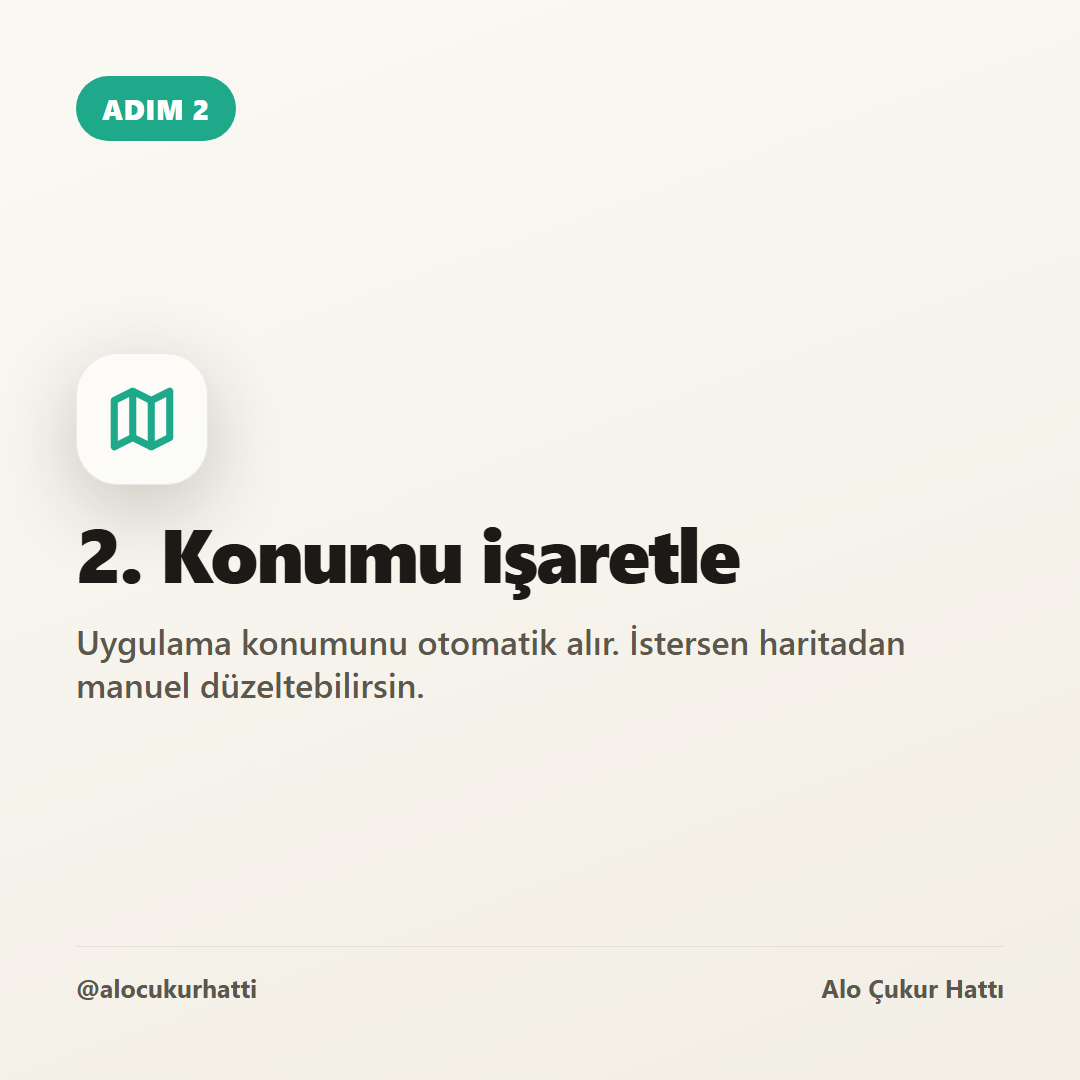
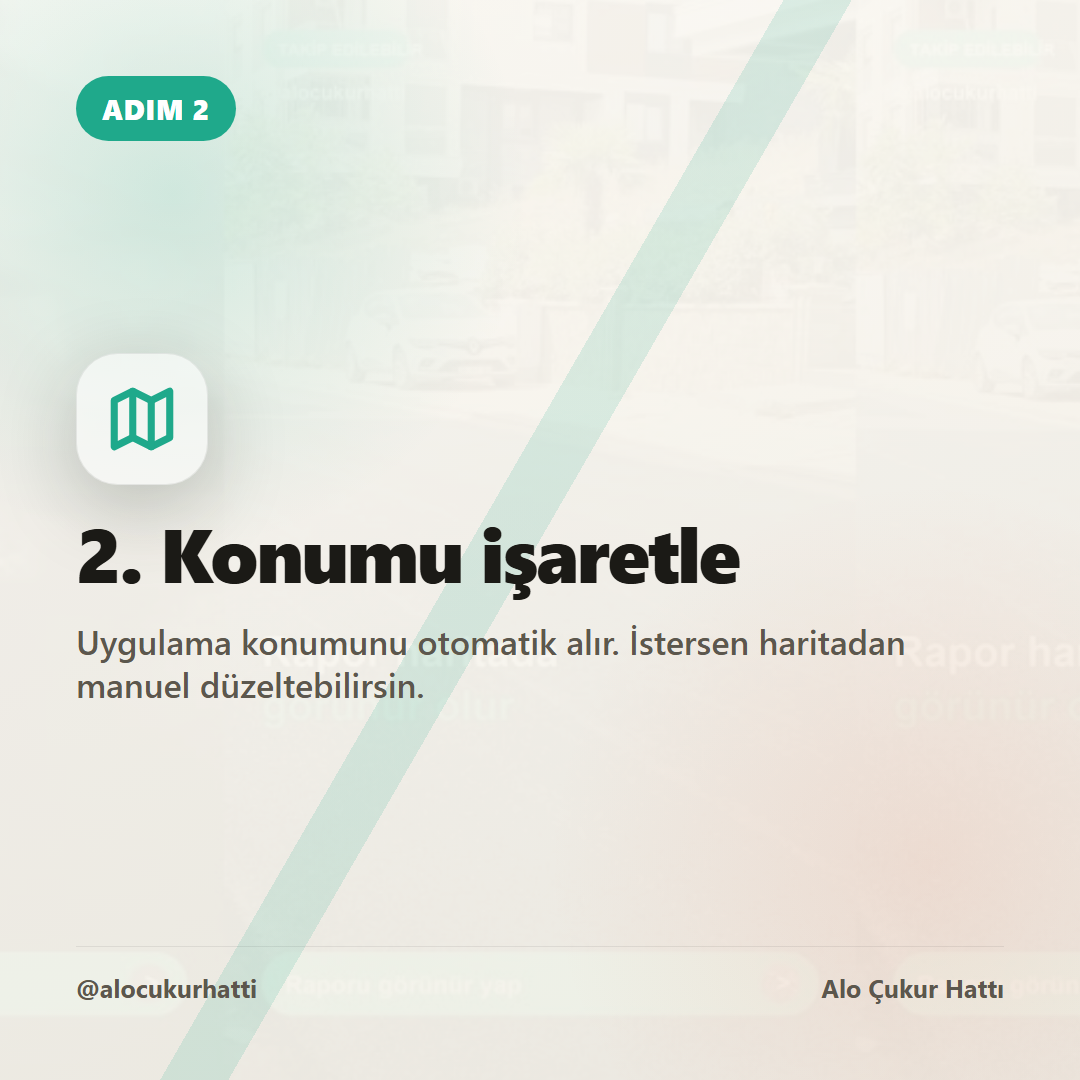
docs: record reels format and refresh carousels

Changed region(s): [[0.1528, 0.0, 0.7944, 1.0], [0.0, 0.0306, 0.3361, 0.3361]]

diff --git a/sosyalmedya/create_first_5_assets.py b/sosyalmedya/create_first_5_assets.py
@@ -14,6 +14,7 @@ from playwright.sync_api import sync_playwright
 BASE = Path(__file__).resolve().parent
 OUT = BASE / "ready_content" / "ilk_5"
 TMP = BASE / "_tmp_first_5.html"
+CAROUSEL_BG = BASE / "moneyprinter_pexels_reels" / "outputs" / "reels_01_pexels_lansman_contact.jpg"
 
 PALETTE = {
     "canvas": "#FBF9F4",
@@ -33,7 +34,7 @@ PALETTE = {
 }
 
 
-def shell(title, eyebrow, body, cta="", icon="pin", dark=False, meta="@alocukurhatti", size="vertical"):
+def shell(title, eyebrow, body, cta="", icon="pin", dark=False, meta="@alocukurhatti", size="vertical", bg_image=""):
     if size == "square":
         width, height = 1080, 1080
         pad = 76
@@ -62,6 +63,35 @@ def shell(title, eyebrow, body, cta="", icon="pin", dark=False, meta="@alocukurh
     sub = "#D8D2C6" if dark else PALETTE["body"]
     card = "rgba(255,255,255,0.08)" if dark else "rgba(255,255,255,0.55)"
     border = "rgba(255,255,255,0.16)" if dark else "rgba(27,26,22,0.08)"
+    photo_opacity = 0.22 if dark else 0.18
+    photo_overlay = "rgba(8,20,17,0.48)" if dark else "rgba(251,249,244,0.76)"
+    photo_bg = (
+        f"""
+          .photo-bg {{
+            position: absolute;
+            inset: 0;
+            background-image:
+              linear-gradient(160deg, {photo_overlay}, {photo_overlay}),
+              url("{bg_image}");
+            background-size: cover;
+            background-position: center;
+            opacity: {photo_opacity};
+            filter: saturate(0.82) contrast(1.08);
+            transform: scale(1.04);
+          }}
+          .photo-sheen {{
+            position: absolute;
+            inset: 0;
+            background:
+              linear-gradient(120deg, transparent 0 46%, rgba(31,169,139,0.14) 46% 50%, transparent 50% 100%),
+              radial-gradient(circle at 16% 18%, rgba(31,169,139,0.18), transparent 28%),
+              radial-gradient(circle at 86% 80%, rgba(231,111,79,0.12), transparent 30%);
+          }}
+        """
+        if bg_image
+        else ""
+    )
+    photo_html = '<div class="photo-bg"></div><div class="photo-sheen"></div>' if bg_image else ""
 
     return f"""
     <html>
@@ -93,6 +123,7 @@ def shell(title, eyebrow, body, cta="", icon="pin", dark=False, meta="@alocukurh
             background-size: 52px 52px;
             opacity: {0.45 if dark else 0.23};
           }}
+          {photo_bg}
           .badge {{
             position: relative;
             z-index: 2;
@@ -189,6 +220,7 @@ def shell(title, eyebrow, body, cta="", icon="pin", dark=False, meta="@alocukurh
       <body>
         <div class="frame">
           <div class="grid"></div>
+          {photo_html}
           <div class="badge">{eyebrow}</div>
           <div class="center">
             <div class="icon">{icon_svg(icon)}</div>
@@ -232,7 +264,8 @@ def vertical(page, folder, name, title, eyebrow, body, cta="", icon="pin", dark=
 
 
 def square(page, folder, name, title, eyebrow, body, cta="", icon="pin", dark=False):
-    html = shell(title, eyebrow, body, cta, icon, dark, size="square")
+    bg_image = CAROUSEL_BG.resolve().as_uri() if CAROUSEL_BG.exists() else ""
+    html = shell(title, eyebrow, body, cta, icon, dark, size="square", bg_image=bg_image)
     render(page, html, OUT / folder / name, 1080, 1080)
 
 

diff --git a/sosyalmedya/README.md b/sosyalmedya/README.md
@@ -10,6 +10,17 @@ Yeni ana strateji `sosyal_medya_plani_2026.md` dosyasındadır. Eski carousel se
 
 ---
 
+## Güncel Üretim Kararı
+
+- Reels/TikTok ana formatı artık **MoneyPrinter + Pexels stok video + Türkçe seslendirme + Alo Çukur Hattı marka katmanı** olacak.
+- Önceden yazılmış veya paylaşılacak tüm Reels fikirleri carousel/storyboard görsellerinden video yapılmayacak; önce Pexels'ten konuya yakın gerçek görüntüler bulunacak, sonra bu profesyonel formata dönüştürülecek.
+- Pexels aramalarında öncelik: yol çukuru, bozuk asfalt, çatlak zemin, asfalt onarımı, trafik, telefon/harita kullanımı ve şehir yolu sahneleri.
+- Carousel görsellerinde düz arka plan tek başına kullanılmayacak. Okunabilirliği bozmayan düşük opaklıklı yol/şehir görsel katmanı, yumuşak renk filtresi ve marka CTA yapısı korunacak.
+
+Güncel profesyonel Reels örnekleri: `moneyprinter_pexels_reels/outputs/`
+
+---
+
 ## 📁 Klasör Yapısı
 
 ```text
